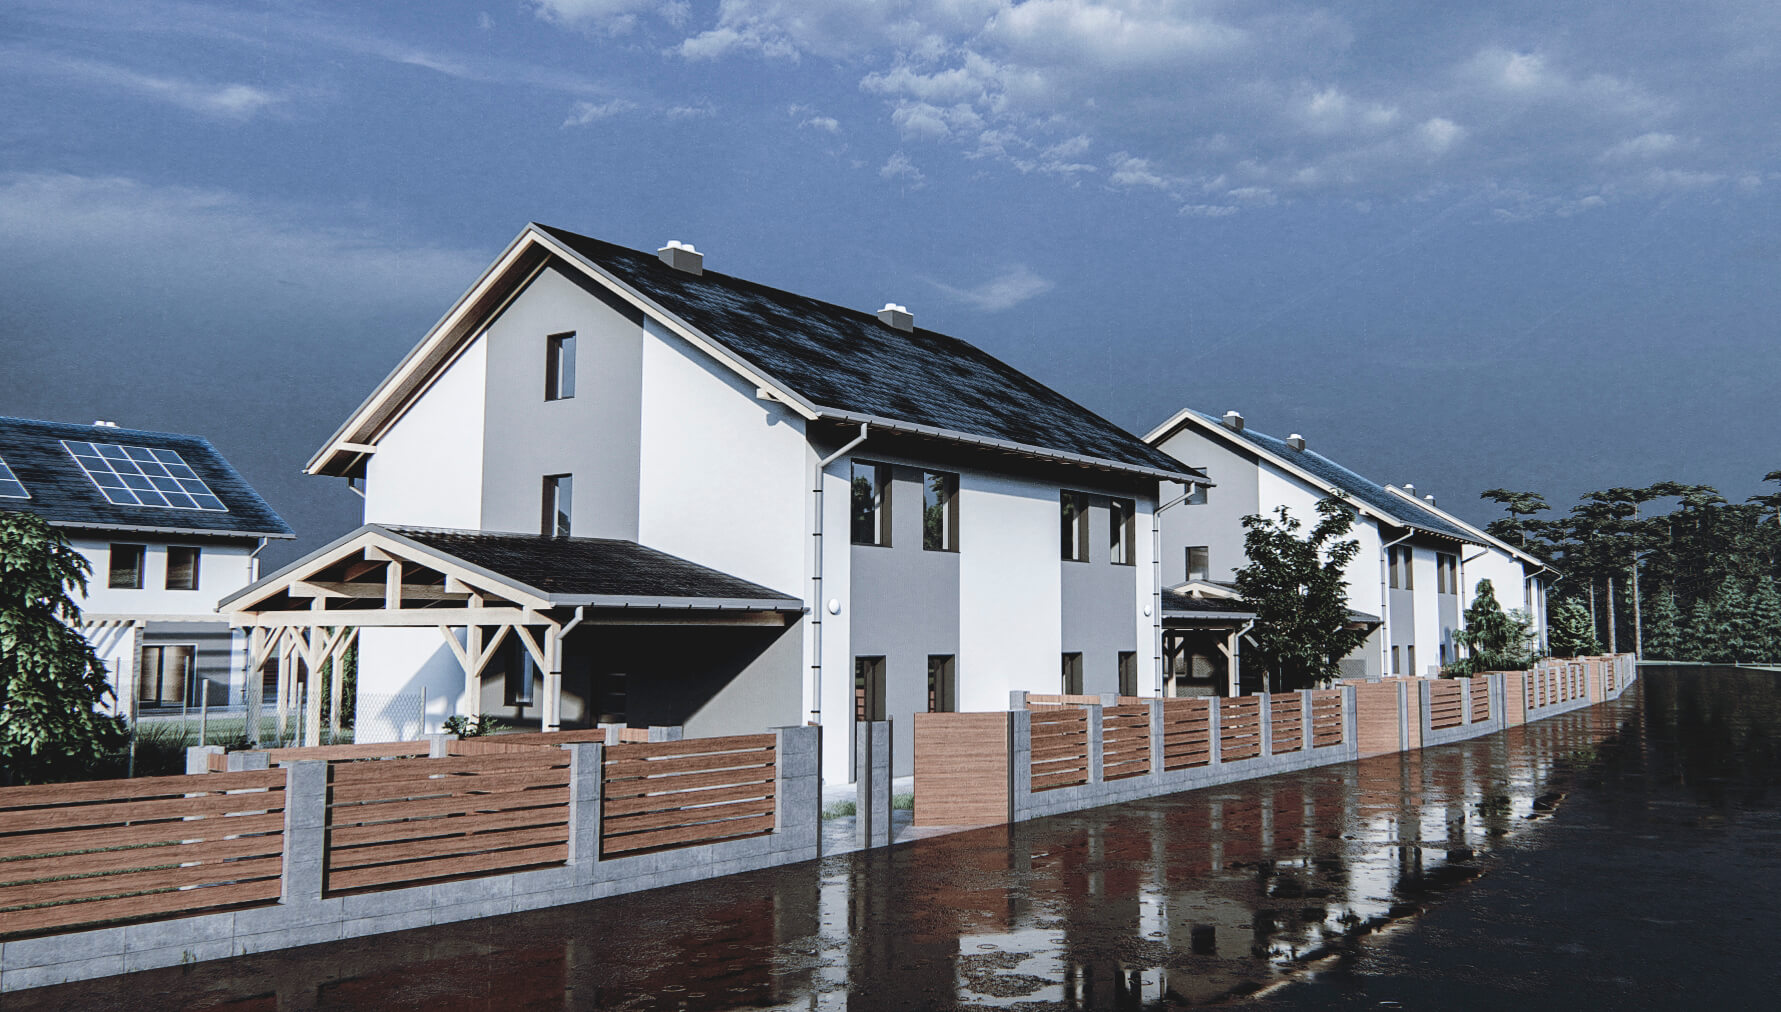
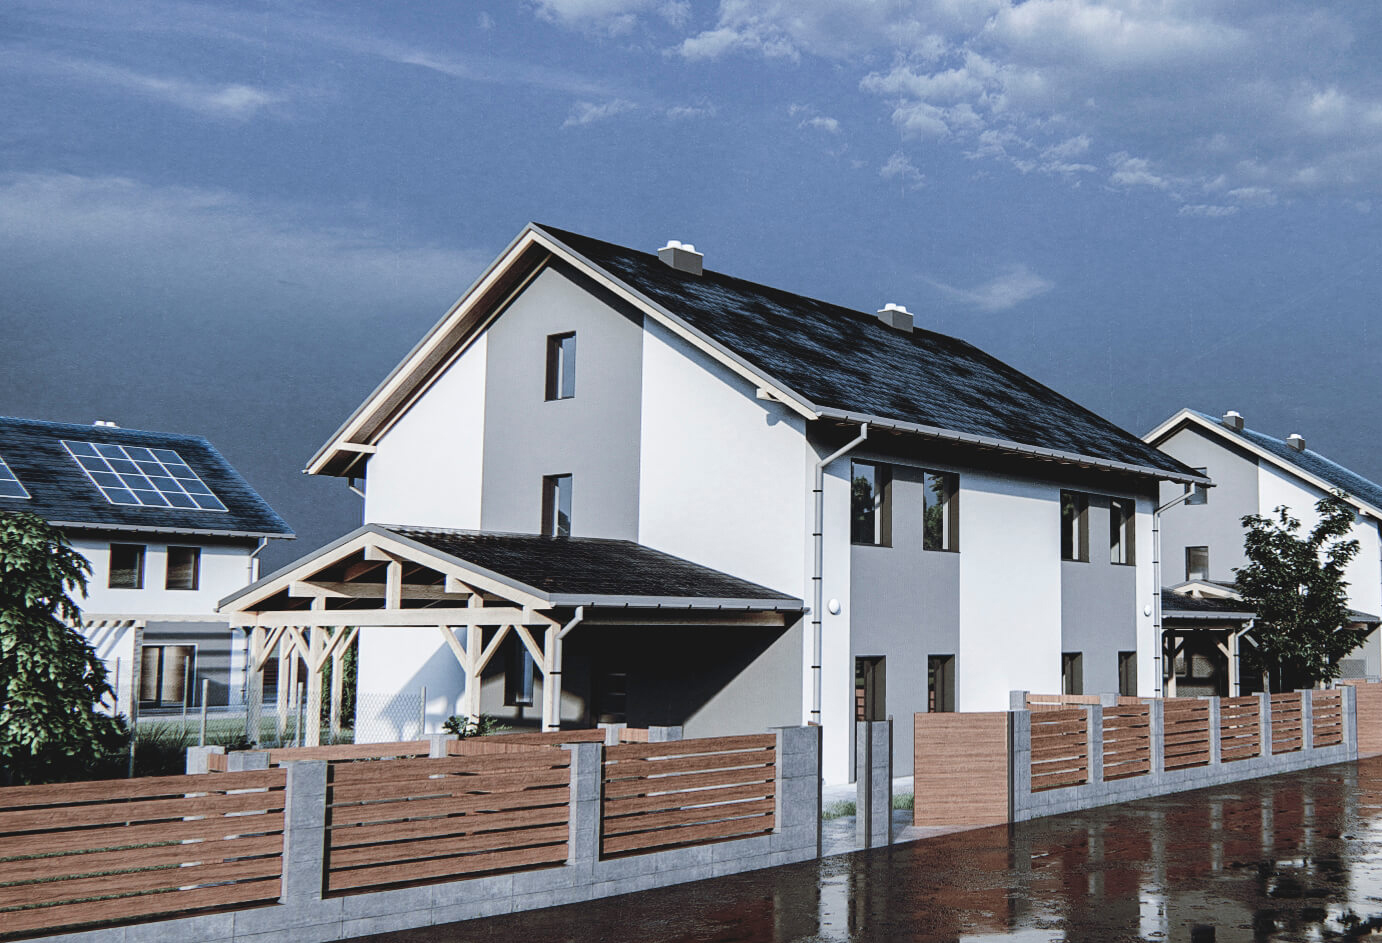
add localization styles

diff --git a/css/style.css b/css/style.css
@@ -4703,9 +4703,9 @@ a {
 }
 
 .header {
-  background-image: url(../assets/new1.jpg);
+  background-image: url(../assets/new-lg1.jpg);
   background-size: cover;
-  min-height: 600px;
+  min-height: 970px;
   background-position: center;
 }
 
@@ -4760,8 +4760,8 @@ a {
   width: 80%;
   height: 75%;
   position: absolute;
-  top: 100px;
-  left: 50px;
+  top: 130px;
+  left: 40px;
   z-index: -1;
 }
 
@@ -4862,8 +4862,8 @@ a {
 .localization__header {
   margin-top: 40px;
   background-image: url(../assets/new4.jpg);
-  background-position: center;
-  min-height: 500px;
+  background-position: top;
+  min-height: 600px;
   background-size: cover;
   position: relative;
 }
@@ -4911,6 +4911,42 @@ a {
 
 .localization .col-4 {
   padding: 15px;
+}
+
+section#technology p {
+  line-height: 24px;
+  font-size: 16px;
+}
+
+section#technology ul {
+  padding: 0;
+  margin: 0 0 20px 0;
+  float: left;
+  font-size: 15px;
+}
+
+section#technology ul li {
+  float: left;
+  width: 100%;
+  margin-bottom: 6px;
+  position: relative;
+  padding-left: 30px;
+  line-height: 24px;
+}
+
+section#technology ul li:after {
+  content: '';
+  width: 5px;
+  height: 5px;
+  background: #0dac66;
+  position: absolute;
+  left: 10px;
+  top: 10px;
+}
+
+section#technology ul li strong {
+  color: #5a5a5a;
+  font-weight: 600;
 }
 
 .contact {
@@ -5152,7 +5188,6 @@ a {
 body {
   margin: 0;
   padding: 0;
-  min-height: 200vh;
   padding-top: 80px;
 }
 

diff --git a/sass/sections/_localization.scss b/sass/sections/_localization.scss
@@ -20,8 +20,8 @@
     &__header {
         margin-top: 40px;
         background-image: url(../assets/new4.jpg);
-        background-position: center;
-        min-height: 500px;
+        background-position: top;
+        min-height: 600px;
         background-size: cover;
         position: relative;
 
@@ -69,3 +69,43 @@
         padding: 15px;
     }
 }
+
+// lokalizacja 
+
+section#technology {
+    p {
+      line-height: 24px;
+      font-size: 16px;
+    }
+  
+    ul {
+      padding: 0;
+      margin: 0 0 20px 0;
+      float: left;
+      font-size: 15px;
+  
+      li {
+        float: left;
+        width: 100%;
+        margin-bottom: 6px;
+        position: relative;
+        padding-left: 30px;
+        line-height: 24px;
+  
+        &:after {
+          content: '';
+          width: 5px;
+          height: 5px;
+          background: #0dac66;
+          position: absolute;
+          left: 10px;
+          top: 10px;
+        }
+  
+        strong {
+          color: #5a5a5a;
+          font-weight: 600;
+        }
+      }
+    }
+  }

diff --git a/sass/sections/_about.scss b/sass/sections/_about.scss
@@ -26,8 +26,8 @@
             width: 80%;
             height: 75%;
             position: absolute;
-            top: 100px;
-            left: 50px;
+            top: 130px;
+            left: 40px;
             z-index: -1;
 
             @include mq(xlarge) {

diff --git a/sass/sections/_header.scss b/sass/sections/_header.scss
@@ -1,7 +1,7 @@
 .header {
-    background-image: url(../assets/new1.jpg);
+    background-image: url(../assets/new-lg1.jpg);
     background-size: cover;
-    min-height: 600px;
+    min-height: 970px;
     background-position: center;
 
     @include mq(large) {

diff --git a/sass/style.scss b/sass/style.scss
@@ -20,8 +20,6 @@
 body {
     margin: 0;
     padding: 0;
-    // margin-top: 80px;
-    min-height: 200vh;
     padding-top: 80px;
 
     @include mq(medium) {
